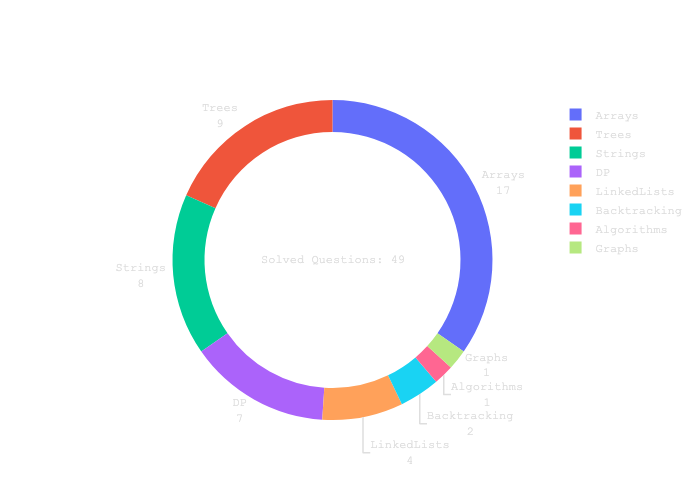
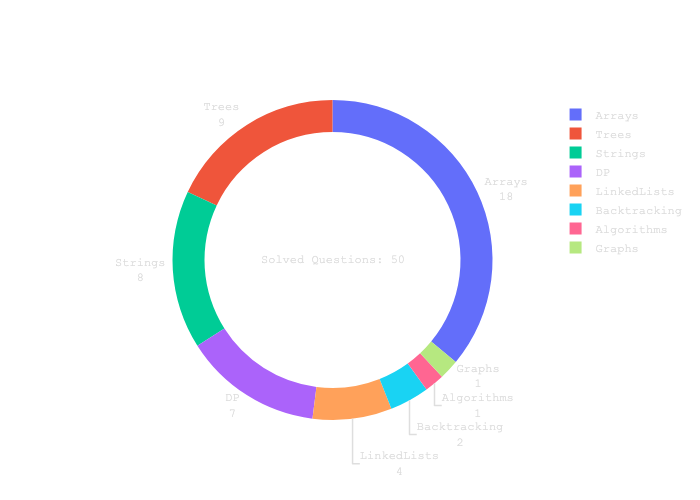
rotate matrix

diff --git a/Arrays/rotateMatrix.py b/Arrays/rotateMatrix.py
@@ -1,0 +1,28 @@
+from typing import List
+from utils.helpers import printMatrix
+
+
+def rotate(matrix: List[List[int]]) -> None:
+    def swap(one, two):
+        temp = matrix[one[0]][one[1]]
+        matrix[one[0]][one[1]] = matrix[two[0]][two[1]]
+        matrix[two[0]][two[1]] = temp
+
+    # swap rows
+    N = len(matrix)
+    for i in range(N // 2):
+        for j in range(N):
+            swap([i, j], [N - 1 - i, j])
+
+    # rotate
+    for col in range(N):
+        for row in range(col, N):
+            print((row, col))
+            swap([row, col], [col, row])
+    printMatrix(matrix)
+    print()
+    return
+
+
+rotate([[1, 2, 3], [4, 5, 6], [7, 8, 9]])
+rotate([[5, 1, 9, 11], [2, 4, 8, 10], [13, 3, 6, 7], [15, 14, 12, 16]])

diff --git a/utils/helpers.py b/utils/helpers.py
@@ -1,0 +1,8 @@
+from typing import List
+
+
+def printMatrix(matrix: List[List[int]]) -> None:
+    for row in matrix:
+        for col in row:
+            print(col, end="\t")
+        print("")

diff --git a/LinkedLists/linkedListCycle.py b/LinkedLists/linkedListCycle.py
@@ -1,5 +1,5 @@
 from typing import Optional
-from utils.ListNode import ListNode
+from utils.ListNode import ListNode, generateList
 
 
 def hasCycle(head: Optional[ListNode]) -> bool:
